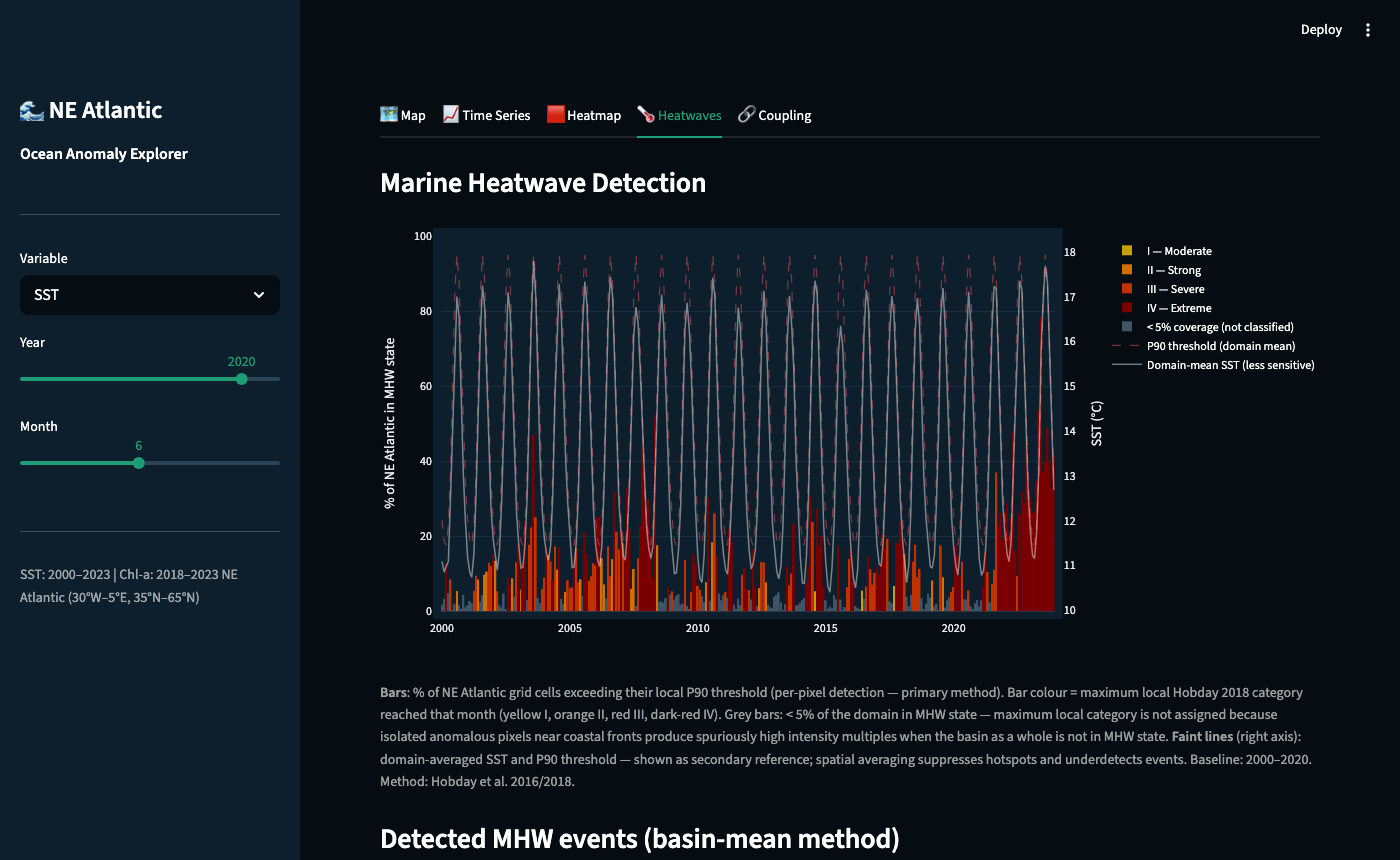
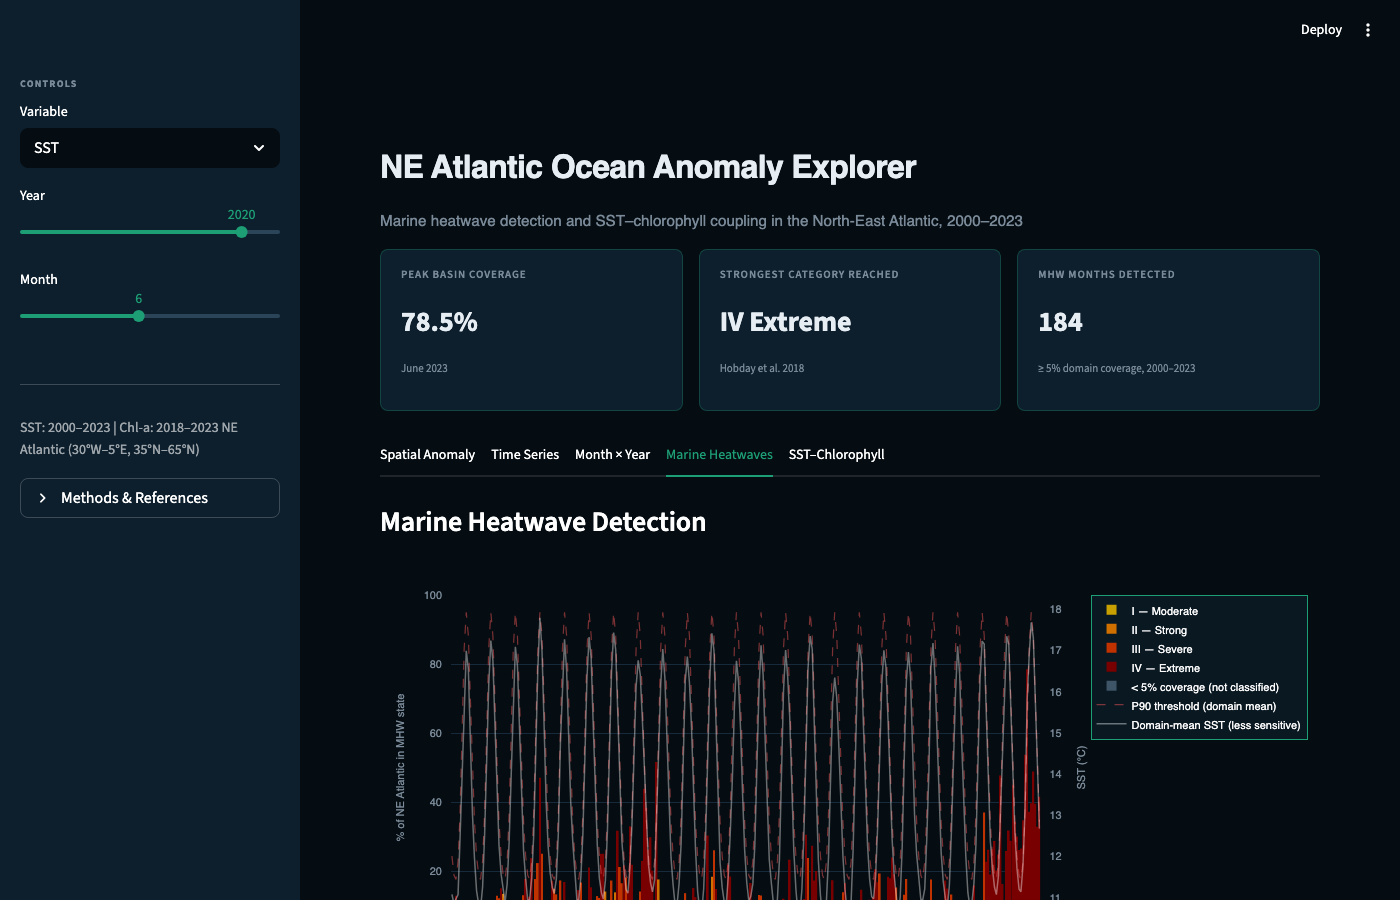
Update screenshot to show new UI with KPI hero cards

diff --git a/README.md b/README.md
@@ -12,7 +12,7 @@ An interactive Streamlit dashboard for exploring Sea Surface Temperature (SST) a
 
 ## Screenshot
 
-![NE Atlantic Ocean Anomaly Explorer — Heatwaves tab showing monthly MHW coverage coloured by Hobday 2018 category (I–IV), 2000–2023](screenshot.png)
+![NE Atlantic Ocean Anomaly Explorer — Marine Heatwaves tab with KPI hero cards, monthly MHW basin coverage coloured by Hobday 2018 category (I–IV), 2000–2023](screenshot.png)
 
 ---
 